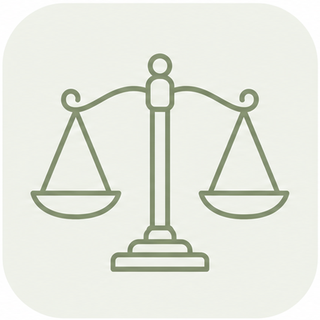
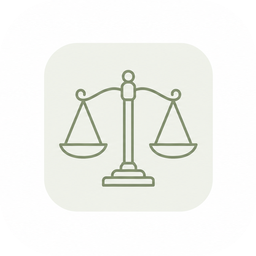
Promise strip: normalize glyph sizes + shrink tiles to 40px (?v=3)
Re-cropped each icon so leaf/scales/lock render at the same visual
glyph size with even padding; reduced tile size 52->40px.

Changed region(s): [[0.0938, 0.1562, 0.9062, 0.875]]

diff --git a/index.html b/index.html
@@ -195,7 +195,7 @@
   .points{display:grid; grid-template-columns:repeat(3,1fr); gap:26px}
   @media (max-width:720px){ .points{grid-template-columns:1fr; gap:22px} }
   .point{text-align:center}
-  .point .ico{width:52px; height:52px; margin:0 auto 14px; display:block}
+  .point .ico{width:40px; height:40px; margin:0 auto 12px; display:block}
   .point .ico img{width:100%; height:100%; display:block; object-fit:contain; border-radius:23%}
   .point h3{font-size:16.5px; font-weight:750; margin:0 0 6px; letter-spacing:-.01em}
   .point p{font-size:14.5px; color:var(--muted); margin:0}
@@ -566,17 +566,17 @@
       <h2>Why Eden Apps</h2>
       <div class="points">
         <div class="point">
-          <div class="ico"><img src="assets/promise-thoughtful.png?v=2" alt="" width="60" height="60" loading="lazy"></div>
+          <div class="ico"><img src="assets/promise-thoughtful.png?v=3" alt="" width="52" height="52" loading="lazy"></div>
           <h3>Thoughtful by nature</h3>
           <p>We build focused apps that respect your time and attention — designed with intention, crafted with care.</p>
         </div>
         <div class="point">
-          <div class="ico"><img src="assets/promise-fair.png?v=2" alt="" width="60" height="60" loading="lazy"></div>
+          <div class="ico"><img src="assets/promise-fair.png?v=3" alt="" width="52" height="52" loading="lazy"></div>
           <h3>Fair and transparent</h3>
           <p>No subscriptions. No hidden fees. Just honest, one-time pricing and a 30-day money-back guarantee on web purchases.</p>
         </div>
         <div class="point">
-          <div class="ico"><img src="assets/promise-yours.png?v=2" alt="" width="60" height="60" loading="lazy"></div>
+          <div class="ico"><img src="assets/promise-yours.png?v=3" alt="" width="52" height="52" loading="lazy"></div>
           <h3>Yours, completely</h3>
           <p>Your data stays on your device. We don't track it, upload it, or sell it. It's yours alone.</p>
         </div>